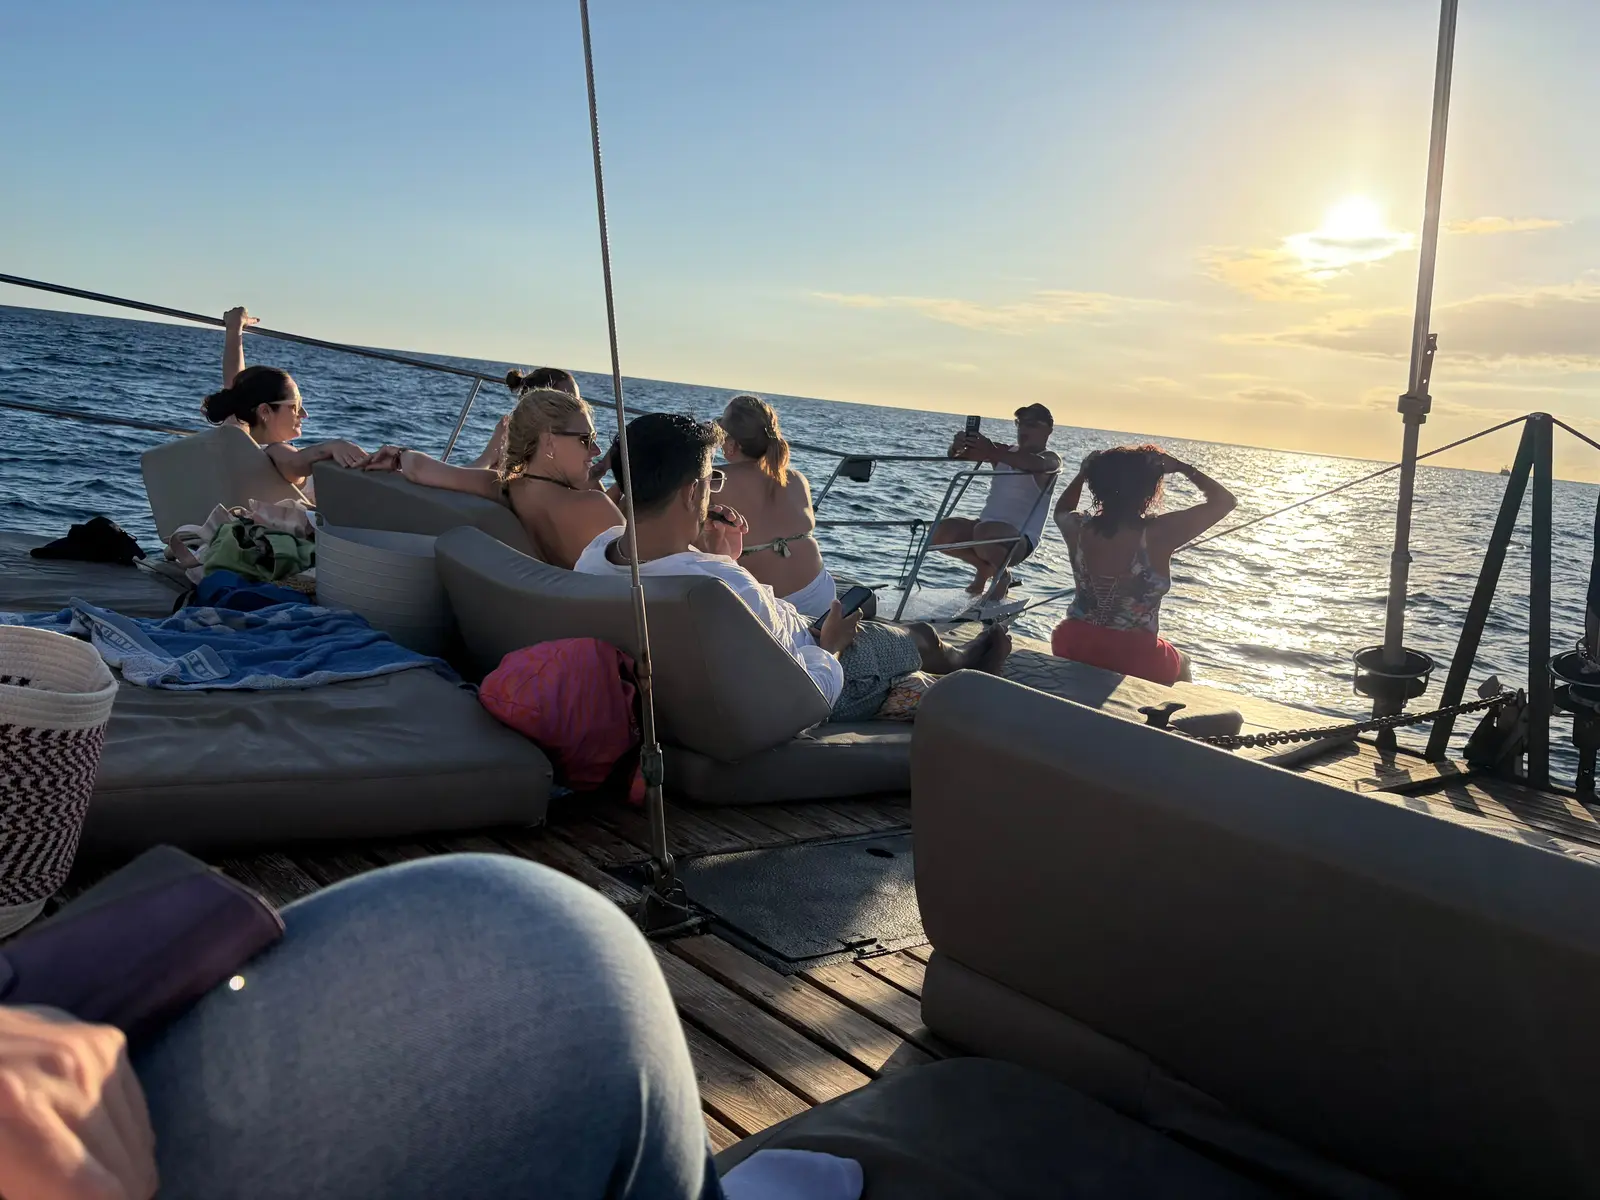
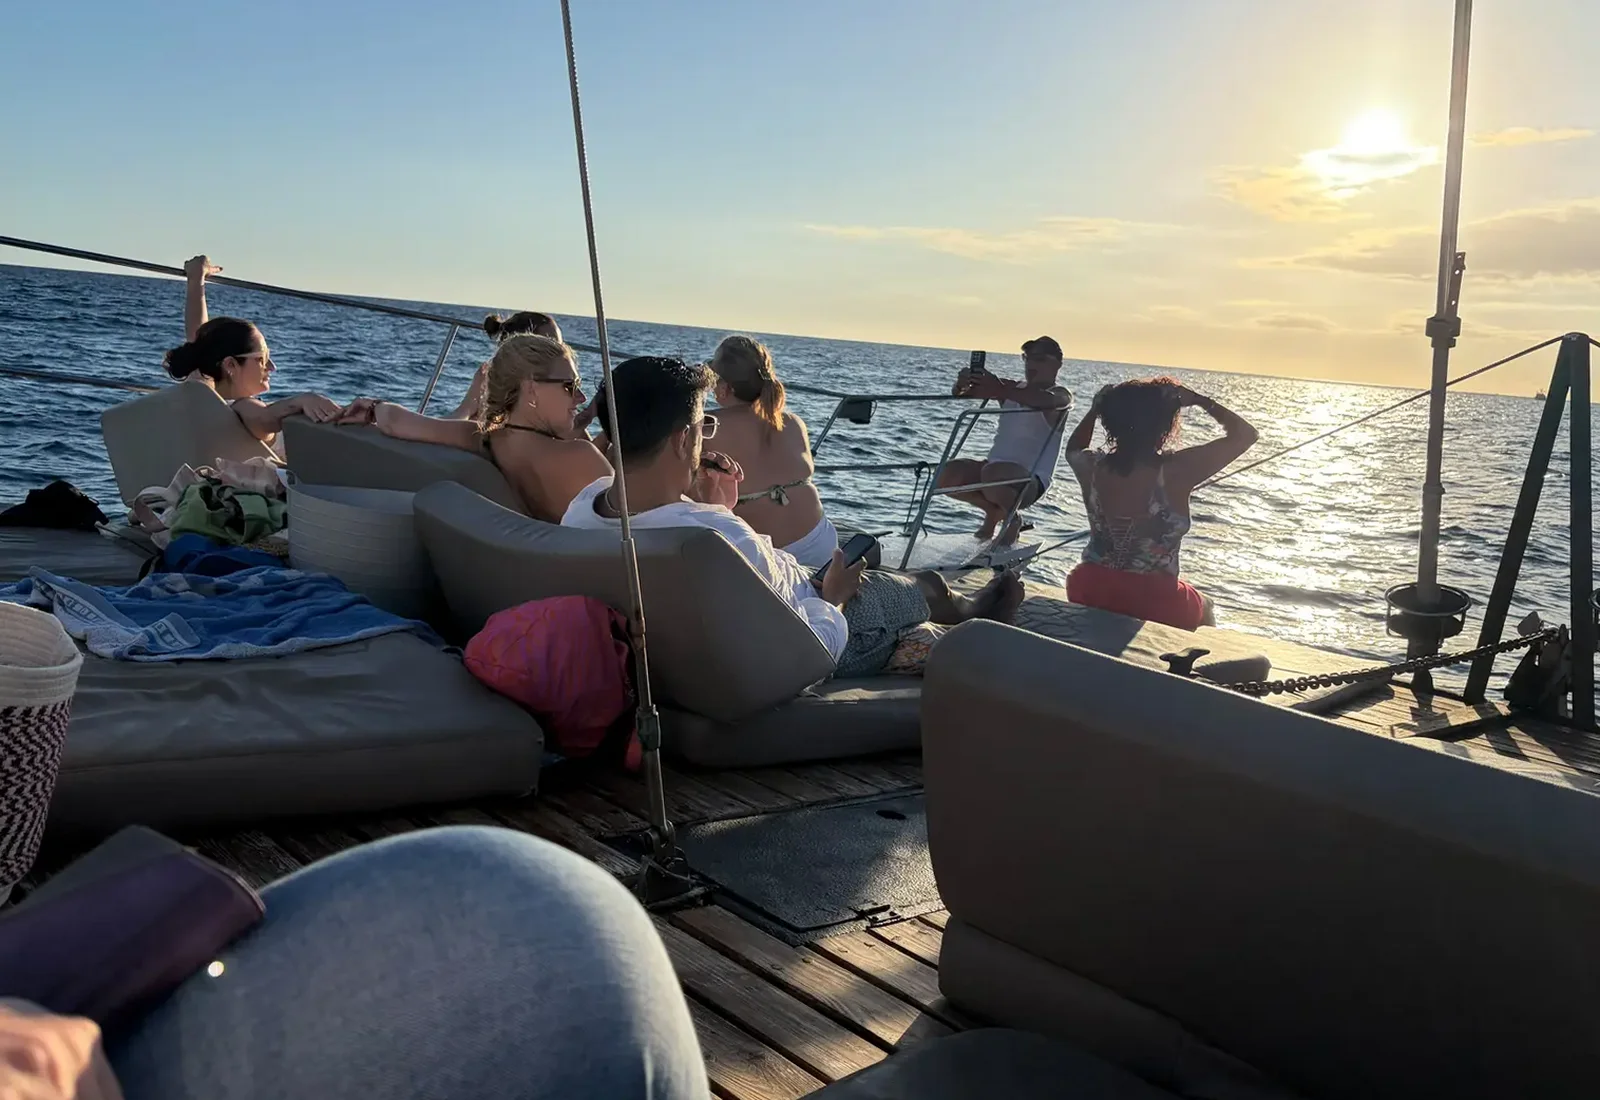
fix: traducciones reales (countdown/badge) + horizonte del hero + descripción SunGlam extendida
Traducciones:
- Countdown DAYS/HOURS/MIN/SEC estaba hardcodeado en inglés en los 6 idiomas
  — ahora usa t(), nuevas claves countdown.days/hours/min/sec por idioma
- events.live sin traducir en IT/DE (quedaba 'ALL INCLUSIVE' literal) ->
  'TUTTO INCLUSO' / 'ALLES INKLUSIVE'
- events.soldout en IT -> 'ESAURITO'
- NL: checkin.maps ('Openen in Maps') y family.b1t ('Voorrang bij instappen')
  sin traducir
- Auditoría completa de las 6 traducciones contra EN vía script; el resto de
  coincidencias (Events/Blog/News/Guides en DE/NL, SOLD OUT en contextos
  nightlife) son préstamos idiomáticos naturales, no bugs — no tocados

Hero: horizonte estaba torcido ~1.4° — corregido con rotación+recorte
preservando composición y ratio 16/11, sin bordes negros.

Evento SunGlam: descripción extendida con datos reales del cartel (DJ set
Ágatha Sun, géneros House/Deep House/Melodic/Tech House, aforo 40, welcome
drink) vía migración nueva (no se reescribe la ya aplicada).

diff --git a/src/i18n/translations.ts b/src/i18n/translations.ts
@@ -7,6 +7,7 @@ const en: Record<string, string> = {
   'hero.sub': 'Open bar, live DJs and limited capacity on the Atlantic. Four hours you will never forget — and photos to prove it.',
   'hero.book': 'Book Now', 'hero.vibe': 'See the vibe',
   'countdown.next': 'NEXT PARTY SETS SAIL IN',
+  'countdown.days': 'DAYS', 'countdown.hours': 'HOURS', 'countdown.min': 'MIN', 'countdown.sec': 'SEC',
   'events.kicker': 'BOOK YOUR EXPERIENCE', 'events.title': 'Upcoming Events',
   'events.sub': 'Limited capacity. Every departure sells out — book early.',
   'events.loading': 'Loading events…', 'events.book': 'Book Now', 'events.soldout': 'SOLD OUT',
@@ -99,6 +100,7 @@ const es: Record<string, string> = {
   'hero.sub': 'Barra libre, DJs en directo y aforo limitado en el Atlántico. Cuatro horas que no olvidarás — con fotos para demostrarlo.',
   'hero.book': 'Reservar', 'hero.vibe': 'Mira el ambiente',
   'countdown.next': 'LA PRÓXIMA FIESTA ZARPA EN',
+  'countdown.days': 'DÍAS', 'countdown.hours': 'HORAS', 'countdown.min': 'MIN', 'countdown.sec': 'SEG',
   'events.kicker': 'RESERVA TU EXPERIENCIA', 'events.title': 'Próximos eventos',
   'events.sub': 'Aforo limitado. Todas las salidas se agotan — reserva pronto.',
   'events.loading': 'Cargando eventos…', 'events.book': 'Reservar', 'events.soldout': 'AGOTADO',
@@ -191,10 +193,11 @@ const it: Record<string, string> = {
   'hero.sub': 'Open bar, DJ dal vivo e capienza limitata sull\'Atlantico. Quattro ore indimenticabili — con le foto per dimostrarlo.',
   'hero.book': 'Prenota', 'hero.vibe': 'Guarda l\'atmosfera',
   'countdown.next': 'LA PROSSIMA FESTA SALPA TRA',
+  'countdown.days': 'GIORNI', 'countdown.hours': 'ORE', 'countdown.min': 'MIN', 'countdown.sec': 'SEC',
   'events.kicker': 'PRENOTA LA TUA ESPERIENZA', 'events.title': 'Prossimi eventi',
   'events.sub': 'Capienza limitata. Ogni partenza va sold out — prenota presto.',
-  'events.loading': 'Caricamento eventi…', 'events.book': 'Prenota', 'events.soldout': 'SOLD OUT',
-  'events.live': 'LIVE · {h}H ALL INCLUSIVE', 'events.fallbackDesc': 'Open bar · DJ dal vivo · Tramonto atlantico',
+  'events.loading': 'Caricamento eventi…', 'events.book': 'Prenota', 'events.soldout': 'ESAURITO',
+  'events.live': 'LIVE · {h}H TUTTO INCLUSO', 'events.fallbackDesc': 'Open bar · DJ dal vivo · Tramonto atlantico',
   'gallery.title': 'Galleria', 'gallery.sub': 'Feste vere, gente vera. Vuoi le tue foto di un evento?',
   'gallery.g1': 'Tramonti', 'gallery.g2': 'A bordo', 'gallery.g3': 'La crew e i DJ',
   'moments.title': 'Boat Club Family Moments', 'moments.sub': 'Niente foto stock. Le nostre feste sono davvero così.',
@@ -283,10 +286,11 @@ const de: Record<string, string> = {
   'hero.sub': 'Open Bar, Live-DJs und begrenzte Plätze auf dem Atlantik. Vier unvergessliche Stunden — mit Fotos als Beweis.',
   'hero.book': 'Jetzt buchen', 'hero.vibe': 'Vibe ansehen',
   'countdown.next': 'DIE NÄCHSTE PARTY LEGT AB IN',
+  'countdown.days': 'TAGE', 'countdown.hours': 'STUNDEN', 'countdown.min': 'MIN', 'countdown.sec': 'SEK',
   'events.kicker': 'BUCHE DEIN ERLEBNIS', 'events.title': 'Kommende Events',
   'events.sub': 'Begrenzte Plätze. Jede Abfahrt ist ausverkauft — früh buchen.',
   'events.loading': 'Events werden geladen…', 'events.book': 'Jetzt buchen', 'events.soldout': 'AUSVERKAUFT',
-  'events.live': 'LIVE · {h}H ALL INCLUSIVE', 'events.fallbackDesc': 'Open Bar · Live-DJ · Atlantik-Sonnenuntergang',
+  'events.live': 'LIVE · {h}H ALLES INKLUSIVE', 'events.fallbackDesc': 'Open Bar · Live-DJ · Atlantik-Sonnenuntergang',
   'gallery.title': 'Galerie', 'gallery.sub': 'Echte Partys, echte Leute. Willst du deine Fotos von einem Event?',
   'gallery.g1': 'Sonnenuntergänge', 'gallery.g2': 'An Bord', 'gallery.g3': 'Crew & DJs',
   'moments.title': 'Boat Club Family Moments', 'moments.sub': 'Keine Stockfotos. So sehen unsere Partys wirklich aus.',
@@ -375,6 +379,7 @@ const no: Record<string, string> = {
   'hero.sub': 'Åpen bar, live-DJ-er og begrenset kapasitet på Atlanterhavet. Fire timer du aldri glemmer — med bilder som bevis.',
   'hero.book': 'Bestill nå', 'hero.vibe': 'Se stemningen',
   'countdown.next': 'NESTE FEST SEILER OM',
+  'countdown.days': 'DAGER', 'countdown.hours': 'TIMER', 'countdown.min': 'MIN', 'countdown.sec': 'SEK',
   'events.kicker': 'BESTILL DIN OPPLEVELSE', 'events.title': 'Kommende eventer',
   'events.sub': 'Begrenset kapasitet. Hver avgang blir utsolgt — bestill tidlig.',
   'events.loading': 'Laster eventer…', 'events.book': 'Bestill nå', 'events.soldout': 'UTSOLGT',
@@ -467,6 +472,7 @@ const nl: Record<string, string> = {
   'hero.sub': 'Open bar, live-dj\'s en beperkte capaciteit op de Atlantische Oceaan. Vier uur die je nooit vergeet — met foto\'s als bewijs.',
   'hero.book': 'Boek nu', 'hero.vibe': 'Bekijk de vibe',
   'countdown.next': 'HET VOLGENDE FEEST VAART UIT OVER',
+  'countdown.days': 'DAGEN', 'countdown.hours': 'UUR', 'countdown.min': 'MIN', 'countdown.sec': 'SEC',
   'events.kicker': 'BOEK JOUW ERVARING', 'events.title': 'Komende events',
   'events.sub': 'Beperkte capaciteit. Elke afvaart raakt uitverkocht — boek op tijd.',
   'events.loading': 'Events laden…', 'events.book': 'Boek nu', 'events.soldout': 'UITVERKOCHT',
@@ -483,7 +489,7 @@ const nl: Record<string, string> = {
   'checkin.t1': 'Kom 30 min eerder', 'checkin.x1': 'De check-in opent 30 minuten voor vertrek bij Puerto Rico Marina, Gran Canaria.',
   'checkin.t2': 'Laat je ticket zien', 'checkin.x2': 'Toon je boekingsbevestiging op WhatsApp bij de Boat Club Party-stand.',
   'checkin.t3': 'Stap aan boord', 'checkin.x3': 'Pak je eerste drankje en zoek je plek aan dek. De rest regelen wij.',
-  'checkin.maps': 'Open in Maps', 'checkin.wa': 'App ons op WhatsApp', 'checkin.email': 'E-mail',
+  'checkin.maps': 'Openen in Maps', 'checkin.wa': 'App ons op WhatsApp', 'checkin.email': 'E-mail',
   'faq.title': 'Veelgestelde vragen',
   'faq.q1': 'Wat zit er bij het ticket in?', 'faq.a1': '4 uur aan boord met onbeperkte open bar (cocktails, bier, frisdrank), live-dj en toegang tot de eventfoto\'s. VIP-tickets geven daarnaast priority boarding en een gereserveerde zone.',
   'faq.q2': 'Kan ik mijn boeking annuleren?', 'faq.a2': 'Ja — gratis annuleren tot 48 uur voor vertrek. Stuur ons een WhatsApp en we betalen terug of verzetten je boeking, zonder vragen.',
@@ -536,7 +542,7 @@ const nl: Record<string, string> = {
   'family.sub': '{percent}% korting op elk feest, voor altijd — combineert met je loyaliteitsniveau.',
   'family.whatTitle': 'Wat is Family?',
   'family.whatText': 'Boat Club Family is ons permanente lidmaatschap voor wie altijd terugkomt. Eén klik, en elke toekomstige boeking heeft je korting — geen coupons, geen voorwaarden, automatische besparing die nooit verloopt.',
-  'family.b1t': 'Priority boarding', 'family.b1x': 'Sla de rij bij de marina over — Family-leden gaan bij elke afvaart als eerste aan boord.',
+  'family.b1t': 'Voorrang bij instappen', 'family.b1x': 'Sla de rij bij de marina over — Family-leden gaan bij elke afvaart als eerste aan boord.',
   'family.b2t': 'Geheime feesten', 'family.b2x': 'Afvaarten alleen op uitnodiging, exclusief aangekondigd aan Family-leden vóór iedereen.',
   'family.b3t': 'Permanente korting', 'family.b3x': '{percent}% altijd actief. Combineert met je Sailor/Captain/Legend-niveau — gecombineerd maximum van 25%.',
   'family.joinBtn': 'WORD LID VAN FAMILY', 'family.joining': 'AANMELDEN…',

diff --git a/src/components/home/Countdown.tsx b/src/components/home/Countdown.tsx
@@ -49,10 +49,10 @@ export default function Countdown({ events }: { events: EventRow[] }) {
 
   const { d, h, m, s } = split(eventStartMs(next) - now)
   const boxes = [
-    { v: d, label: 'DAYS' },
-    { v: h, label: 'HOURS' },
-    { v: m, label: 'MIN' },
-    { v: s, label: 'SEC' },
+    { v: d, label: t('countdown.days') },
+    { v: h, label: t('countdown.hours') },
+    { v: m, label: t('countdown.min') },
+    { v: s, label: t('countdown.sec') },
   ]
 
   return (
